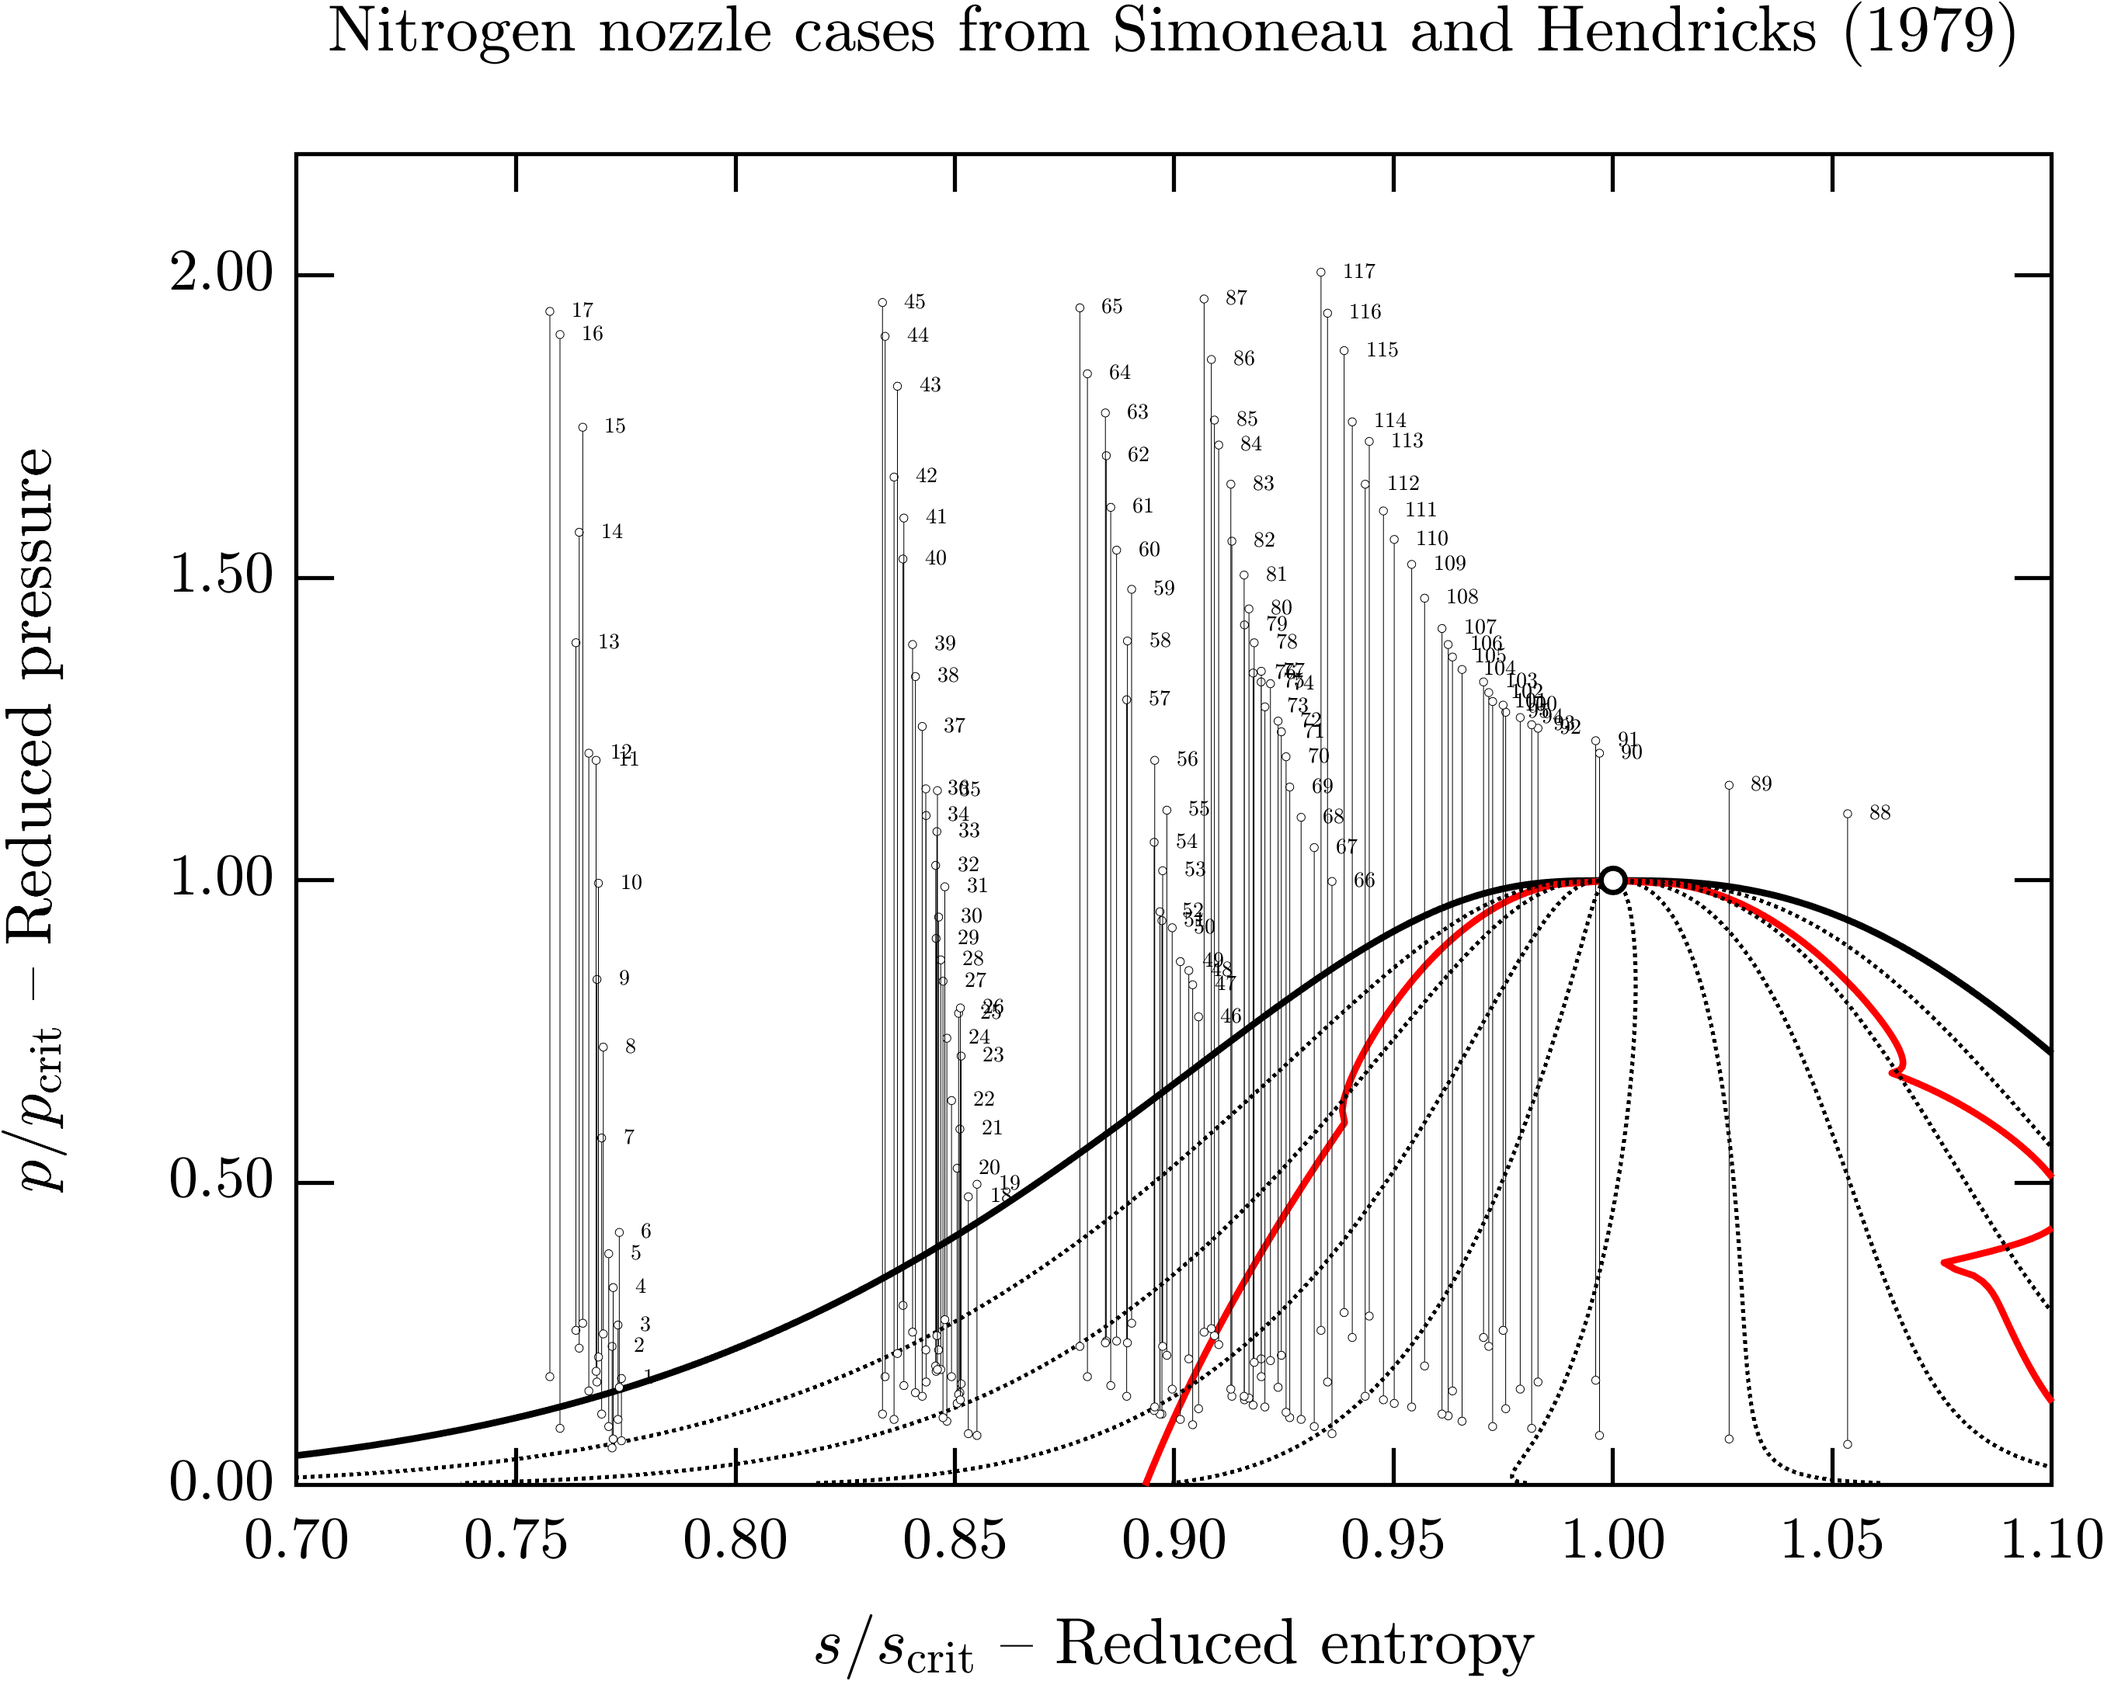
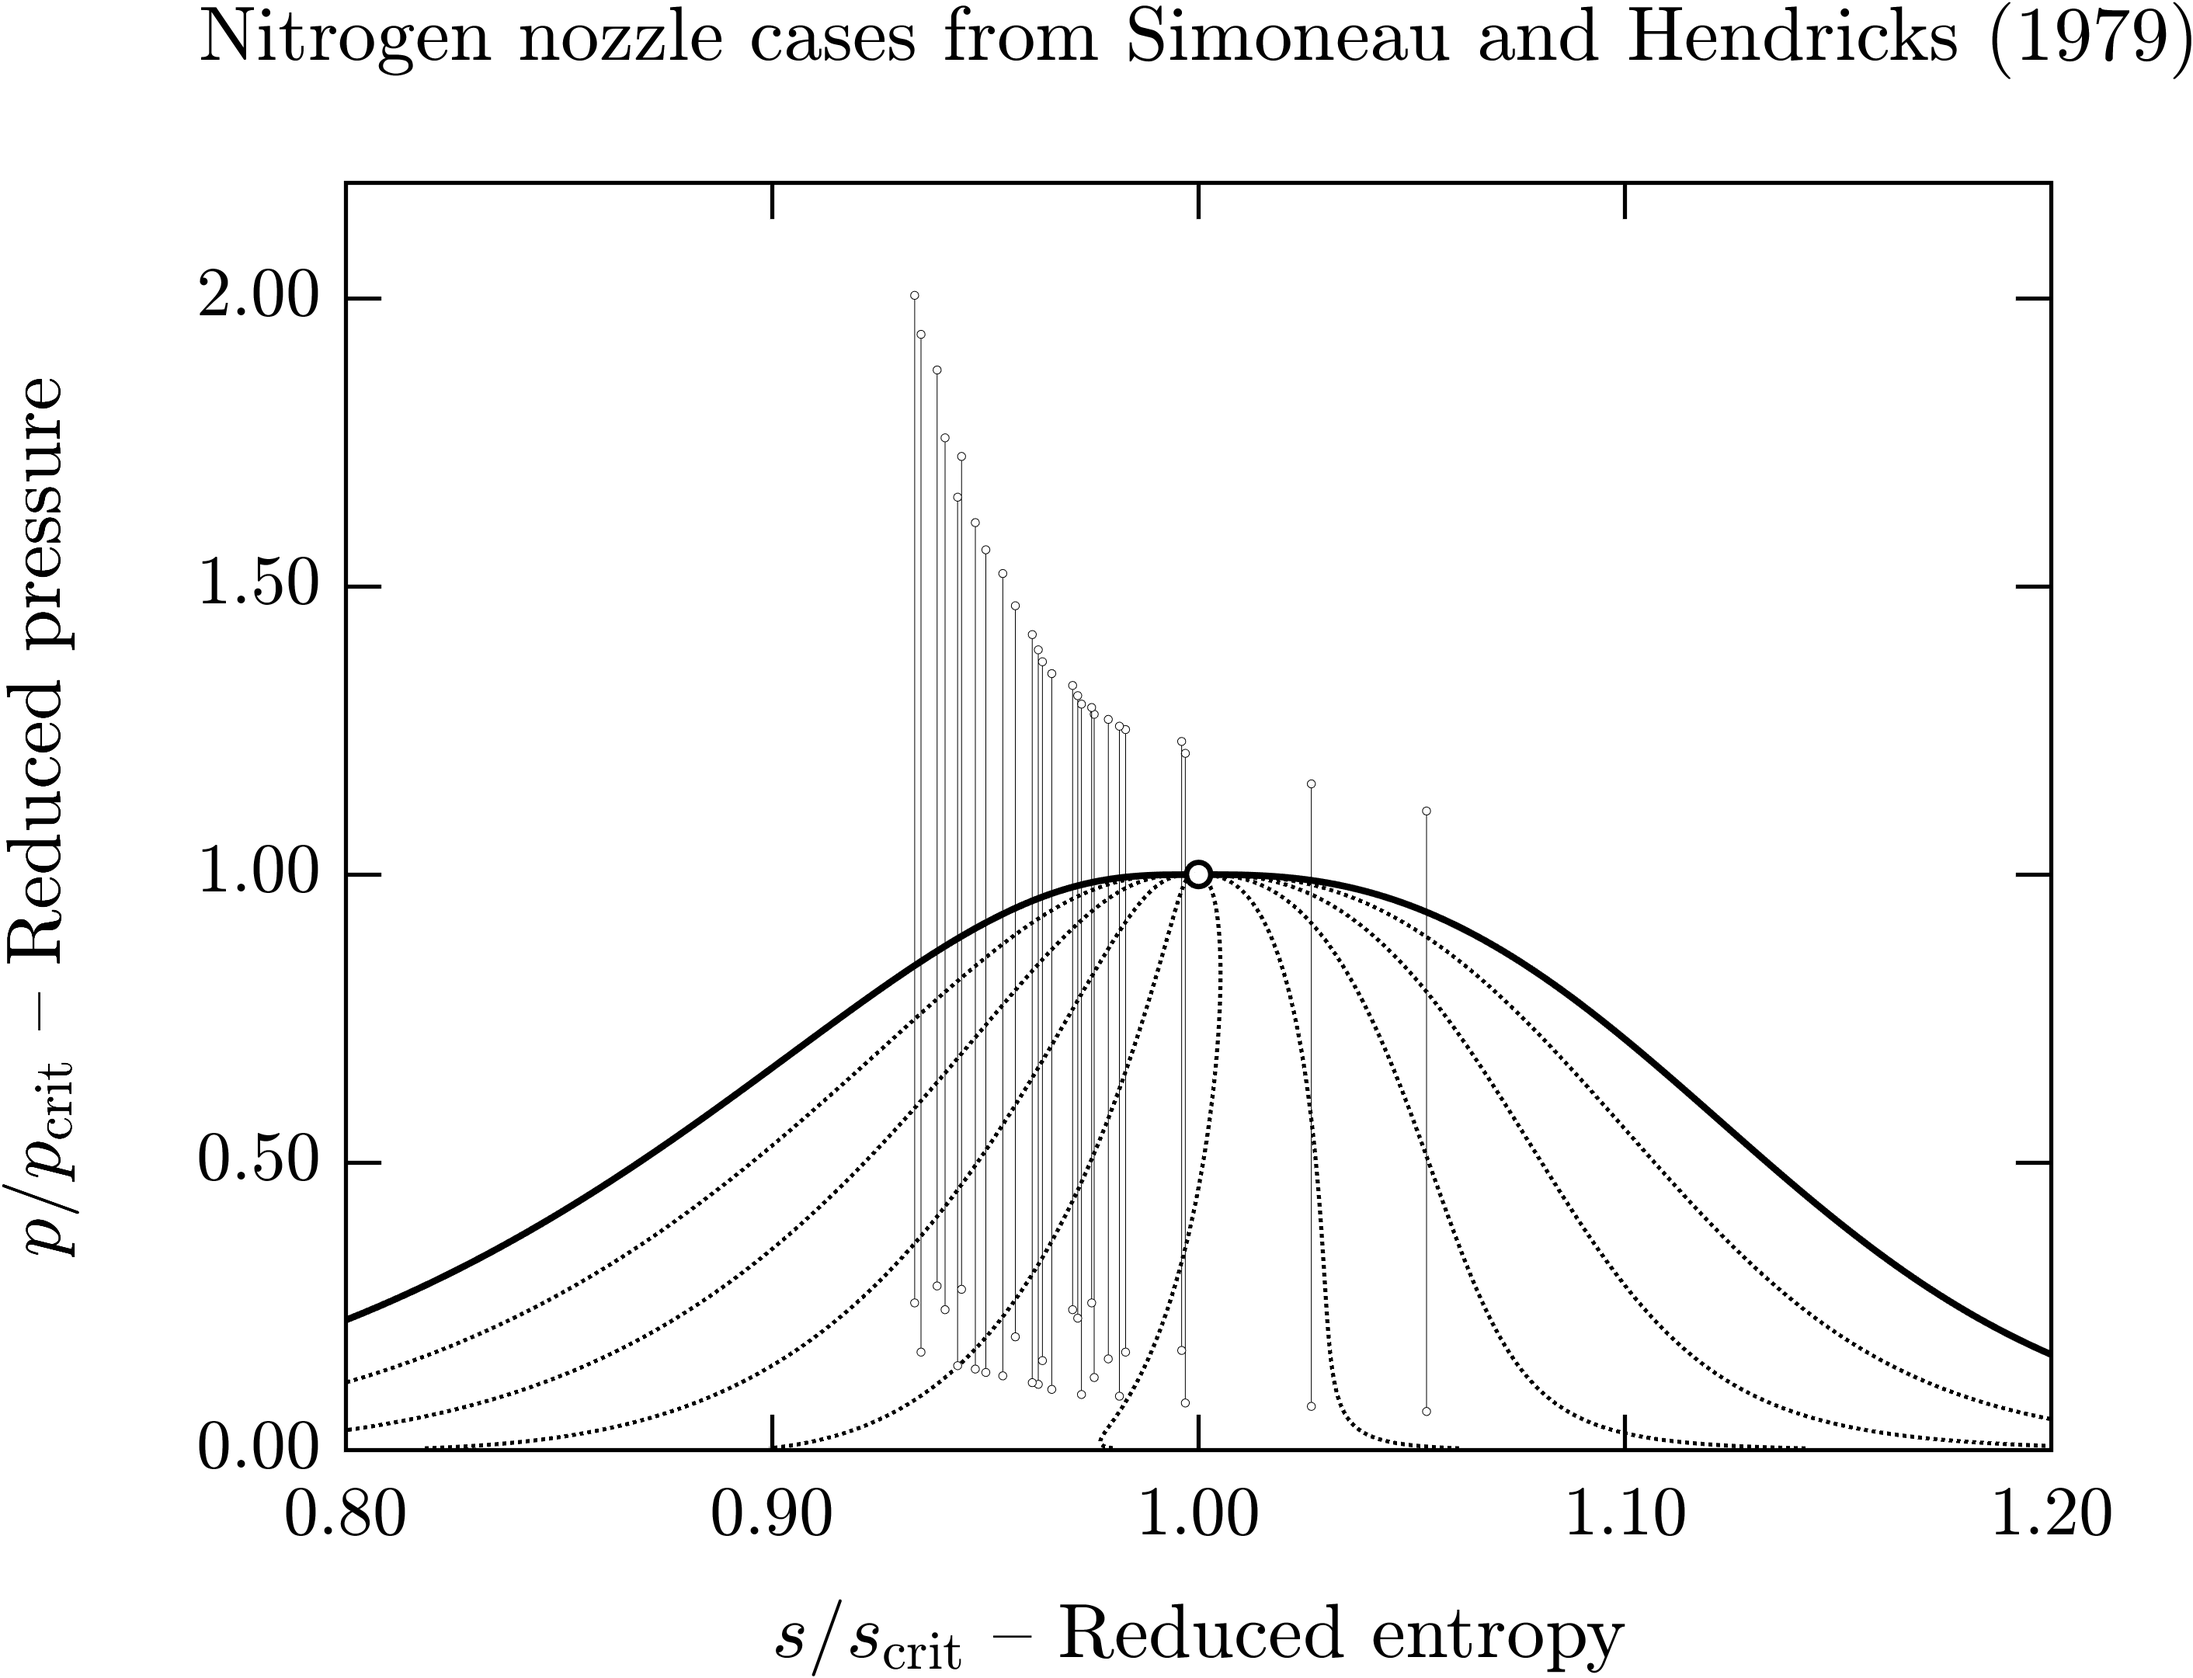
update Simoneau case

diff --git a/validation/Simoneau_Hendricks_1979/automate_simulations/plot_cases_ps.m b/validation/Simoneau_Hendricks_1979/automate_simulations/plot_cases_ps.m
@@ -16,7 +16,8 @@ save_figures = true;
 defaultColors = get(groot, 'factoryAxesColorOrder');
 
 % Load experimental cases
-cases = readtable("../cases_summary.xlsx", NumHeaderLines=1);
+cases = readtable("../cases_summary.xlsx", NumHeaderLines=0);
+cases = cases(cases.Case >= 88, :);
 
 % Create the fluid
 fluid_nane = "nitrogen";
@@ -41,15 +42,16 @@ ax.XScale = "linear";
 ax.YScale = "linear";
 xtickformat('%.2f');
 ytickformat('%.2f')
-ax.XLim = [0.7, 1.1];
+% ax.XLim = [0.7, 1.1];
+% ax.YLim = [0, 2.2];
+ax.XLim = [0.8, 1.2];
 ax.YLim = [0, 2.2];
-
 
 % Plot the phase diagram
 plot_phase_diagram(prop_x, prop_y, fluid.abstractstate, ...
                    plot_critical_point=true, ...
                    plot_saturation_line=true, ...
-                   plot_spinodal_line=true, ...
+                   plot_spinodal_line=false, ...
                    spinodal_line_color='red', ...
                    spinodal_line_width=1.25, ...
                    spinodal_line_method='robust', ...
@@ -68,7 +70,7 @@ for i = 1:numel(cases.P_0_in)
 
     % Plot states
     plot([props_in.(prop_x), props_out.(prop_x)], [props_in.(prop_y), props_out.(prop_y)], 'k-', LineWidth=0.1, Marker='o', MarkerSize=1.5, MarkerFaceColor='w')
-    text(props_in.(prop_x), props_in.(prop_y), 0, ['$\quad$', num2str(cases.Case(i))], FontSize=4)
+%     text(props_in.(prop_x), props_in.(prop_y), 0, ['$\quad$', num2str(cases.Case(i))], FontSize=4)
 
 end
 
